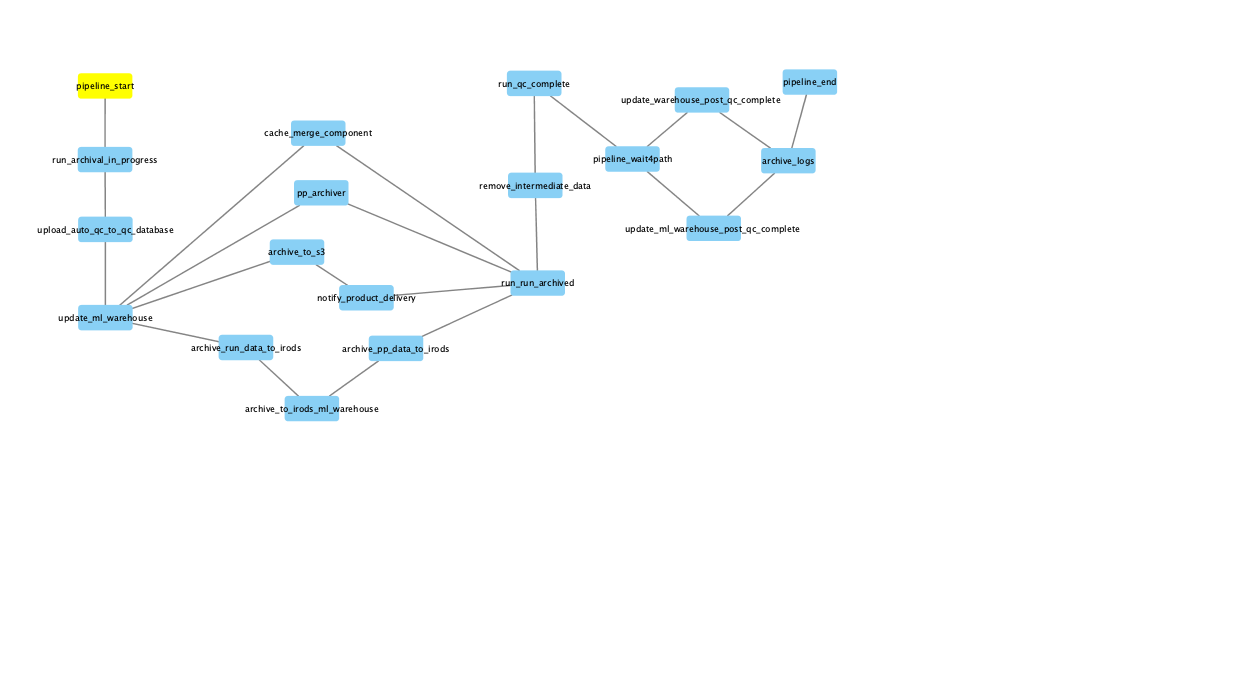
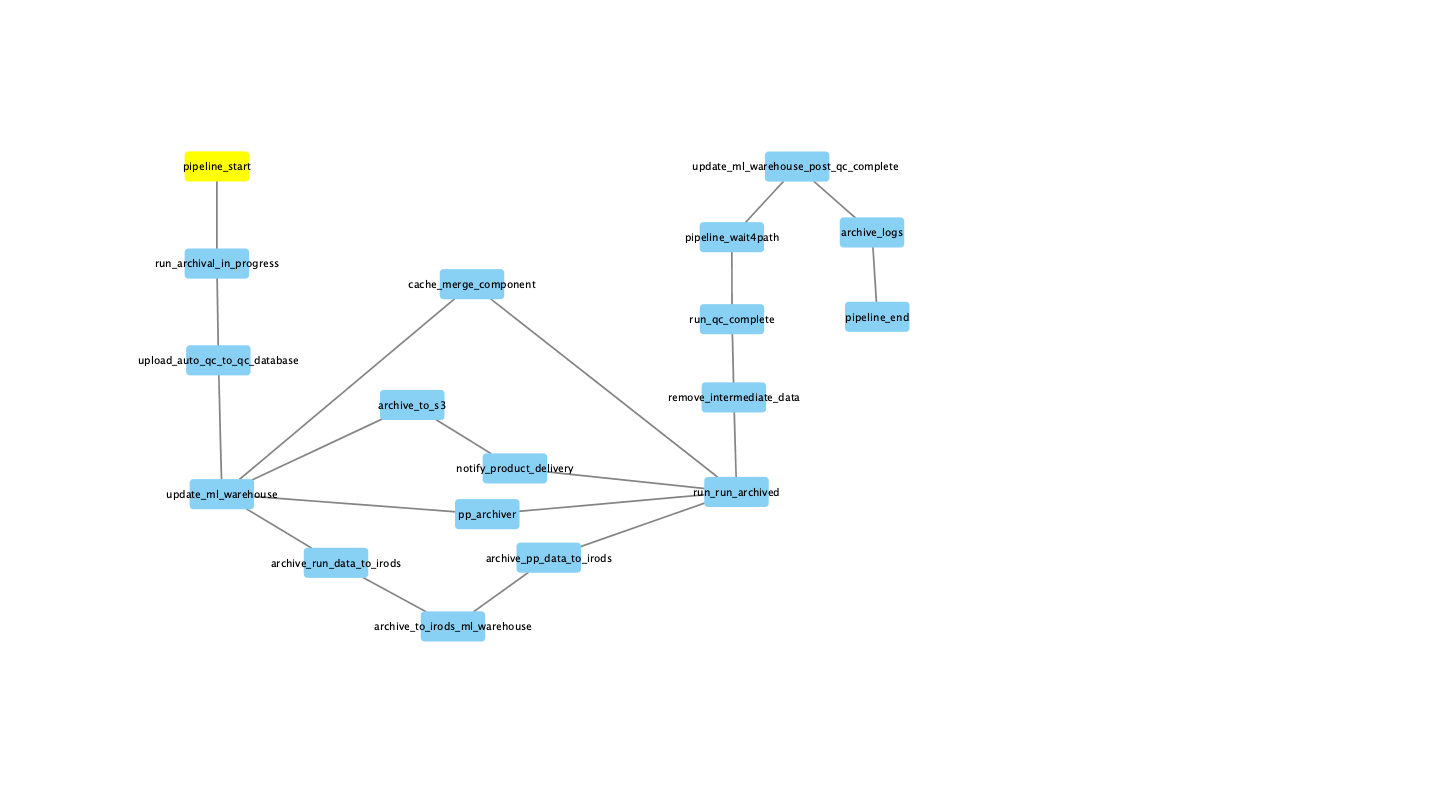
Stop loading data to the old warehouse.
Remove the update_ml_warehouse_post_qc_complete function from
the archival pipeline graph.

diff --git a/data/config_files/README.md b/data/config_files/README.md
@@ -9,7 +9,8 @@ Pipeline-wide parameters can be set here
 
 - function_list_*.png
 
-  Graphical renderings of the pipeline graph to show job interdependencies. Node names refer to entries in npg_pipeline::pluggable::registry
+  Graphical renderings of the pipeline graph to show job interdependencies. Node
+names refer to entries in npg_pipeline::pluggable::registry
 
 - general_values.ini
 
@@ -81,3 +82,19 @@ If resources are supplied, there *must* be something under a *default* block
 - reserve_irods_slots - the number of iRODS tokens required by the job
 
 Note the settings required to protect assets from being overloaded with requests. iRODS and NFS in particular are vulnerable to saturation that leads to complicated pipeline failures.
+
+## Visualization of function graphs
+
+Convert the JSON graph format to the widely use GML (Graph Markup Language)
+format. A simple conversion example using a script supplied in this package:
+
+```
+(scripts/jgf2gml data/config_files/function_list_post_qc_review.json) > \
+  data/config_files/function_list_post_qc_review.json.gml
+```
+
+Use any tool capable of visualization GML graph format, for example,
+[Cytoscape](https://cytoscape.org/), which is capable of exporting the
+produced layout to a PNG image.
+
+
